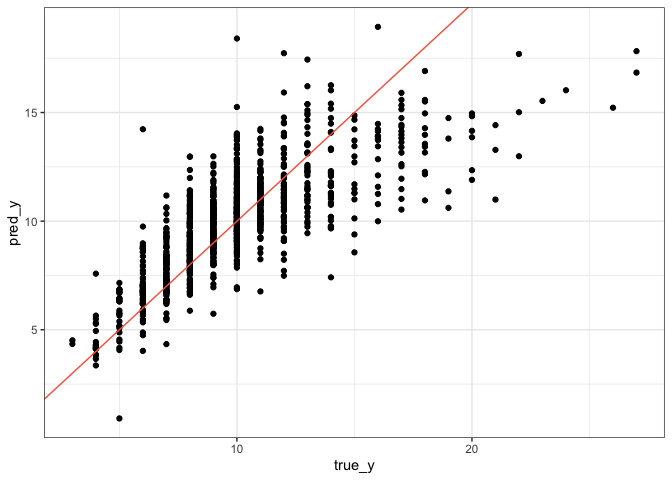
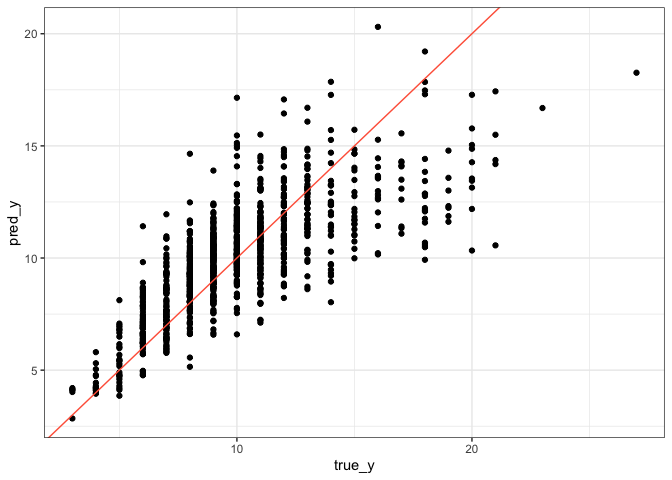
double checked version, also reran examples

diff --git a/examples/banknote/banknote_example.md b/examples/banknote/banknote_example.md
@@ -1,6 +1,6 @@
 Classification Example: Banknote
 ================
-2024-11-04
+2025-04-07
 
 ## Introduction
 
@@ -80,7 +80,7 @@ if (!is.null(cat_level_list)){
   } else if (nrow(X_cat) > 1) {
     X_cat_train = matrix(X_cat[-test_split_list[[1]], ], ncol = 1)
     X_cat_test = matrix(X_cat[test_split_list[[1]], ], ncol = 1)
-  } else if (nrow(X_cat == 1)){
+  } else if (nrow(X_cat) == 1){
     X_cat_train = matrix(0L, nrow = 1, ncol = 1)
     X_cat_test = matrix(0L, nrow = 1, ncol = 1)
   }
@@ -99,7 +99,7 @@ fit <- obliqueBART::probit_obliqueBART_lp(
         cat_levels_list = cat_level_list,
         X_cont_test = X_cont_test,
         X_cat_test = X_cat_test,
-        phi_option = 7,
+        prob_aa = 0
       )
 ```
 
@@ -126,11 +126,11 @@ train_accuracy <- mean(Y_train == (phat_train >= .5))
 train_accuracy
 ```
 
-    ## [1] 0.9951409
+    ## [1] 0.9961127
 
 ``` r
 test_accuracy <- mean(Y_test == (phat_test >= .5))
 test_accuracy
 ```
 
-    ## [1] 0.9854227
+    ## [1] 0.9941691

diff --git a/examples/abalone/abolone_example.md b/examples/abalone/abolone_example.md
@@ -1,6 +1,6 @@
-Toy Problems Example
+Regression Example: Abalone
 ================
-2024-11-04
+2025-04-07
 
 ## Introduction
 
@@ -9,7 +9,8 @@ axis-aligned BART on a regression task.
 
 ## Settings
 
-Below, we load the *abalone* dataset.
+Below, we load the
+*abalone*\[<https://archive.ics.uci.edu/dataset/1/abalone>\] dataset.
 
 ``` r
 data = read.csv("abalone.data", header = FALSE)
@@ -120,14 +121,14 @@ rmse_train = MLmetrics::RMSE(Y_train, fit$yhat.train.mean)
 rmse_train
 ```
 
-    ## [1] 1.941306
+    ## [1] 1.945311
 
 ``` r
 rmse_test = MLmetrics::RMSE(Y_test, fit$yhat.test.mean)
 rmse_test
 ```
 
-    ## [1] 2.111341
+    ## [1] 2.152072
 
 ``` r
 predictions_df <- tibble(true_y = Y_test,
